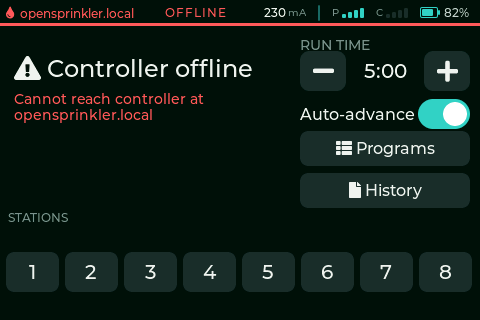
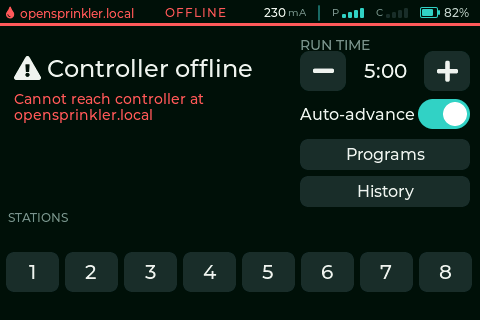
#127 History PR1 refinements: plain nav labels, header retention note, spacing
- Remove the leading glyphs from the Programs and History nav buttons (plain
  text labels now); resize buttons 35->31px with an 8px gap below Auto-advance
  so Programs no longer touches the toggle.
- Drop the bullet from the manual-run "Manual" tag (plain "Manual").
- Annotate the HISTORY header with a muted "Last 30 days" retention note next to
  the title (static for now; PR2 will source the real window from /jl).

Re-rendered all sim states. Native 191/191 green. cyd-35r flash 1470009 ->
1474381 (+4372, +0.22%). include/lv_conf.h byte-identical; nothing vendored.

Copilot-Session: e9242aba-b524-48da-8bd5-a10cf8c2ef23

Changed region(s): [[0.625, 0.4062, 1.0, 0.625]]

diff --git a/lib/ui/panel_screen.cpp b/lib/ui/panel_screen.cpp
@@ -288,19 +288,21 @@ PanelScreen build_panel_screen(lv_obj_t* scr, const Callbacks& cbs) {
 
         // Programs + History entry buttons, stacked in the space below the
         // Auto-advance row. Both share the same width/style/height so the right
-        // column reads as one family; a leading glyph names the screen each
-        // opens (list -> programs, file -> history). Text uses CLR_TEXT like the
-        // other secondary buttons rather than a teal accent.
+        // column reads as one family; plain text labels (no leading glyph) name
+        // the screen each opens. Text uses CLR_TEXT like the other secondary
+        // buttons rather than a teal accent.
         //
         // The right panel is already flush to the STATIONS grid (its bottom edge
-        // == grid top) so it cannot grow downward; instead the buttons fill the
-        // full nav band from just below auto-advance down to the panel's inner
-        // bottom edge, overlapping the 10px bottom pad (same bg) to reclaim it.
-        // This grows each button 29->35px (+6) vs the initial #127 layout while
-        // leaving the stepper + auto-advance at their current legible spacing.
-        static constexpr int NAV_BTN2_H  = 35;  // shared nav-button height
-        static constexpr int NAV_BTN2_G  = 7;   // gap between the two buttons
-        const int nav_top    = AA_Y + AA_H;             // below auto-adv (=94)
+        // == grid top) so it cannot grow downward; the buttons fill the nav band
+        // below auto-advance (with an 8px breathing gap so they don't touch the
+        // toggle) down to the panel's inner bottom edge, overlapping the 10px
+        // bottom pad (same bg) to reclaim it. This grows each button 29->31px
+        // (+2) vs the initial #127 layout while leaving the stepper +
+        // auto-advance at their current legible spacing.
+        static constexpr int NAV_BTN2_H  = 31;  // shared nav-button height
+        static constexpr int NAV_BTN2_G  = 6;   // gap between the two buttons
+        static constexpr int NAV_TOP_GAP = 8;   // gap below auto-advance toggle
+        const int nav_top    = AA_Y + AA_H + NAV_TOP_GAP;  // below auto-adv (=102)
         const int nav_bottom = CONTENT_H - PANEL_PAD;   // overlap bottom pad (=171)
         const int nav_space  = nav_bottom - nav_top;    // usable band (=77)
         const int nav_block  = 2 * NAV_BTN2_H + NAV_BTN2_G;  // both + gap
@@ -308,14 +310,14 @@ PanelScreen build_panel_screen(lv_obj_t* scr, const Callbacks& cbs) {
         if (prog_btn_y < nav_top) prog_btn_y = nav_top;
         const int hist_btn_y = prog_btn_y + NAV_BTN2_H + NAV_BTN2_G;
 
-        ps.btn_programs = make_btn(pnl, LV_SYMBOL_LIST " Programs",
+        ps.btn_programs = make_btn(pnl, "Programs",
                                    CLR_LINE, CLR_TEXT, &lv_font_montserrat_16, 8);
         lv_obj_set_size(ps.btn_programs, PANEL_CONTENT_W, NAV_BTN2_H);
         lv_obj_align(ps.btn_programs, LV_ALIGN_TOP_LEFT, 0, prog_btn_y);
         if (cbs.on_open_programs)
             lv_obj_add_event_cb(ps.btn_programs, cbs.on_open_programs, LV_EVENT_CLICKED, nullptr);
 
-        ps.btn_history = make_btn(pnl, LV_SYMBOL_FILE " History",
+        ps.btn_history = make_btn(pnl, "History",
                                   CLR_LINE, CLR_TEXT, &lv_font_montserrat_16, 8);
         lv_obj_set_size(ps.btn_history, PANEL_CONTENT_W, NAV_BTN2_H);
         lv_obj_align(ps.btn_history, LV_ALIGN_TOP_LEFT, 0, hist_btn_y);
@@ -663,6 +665,16 @@ PanelScreen build_panel_screen(lv_obj_t* scr, const Callbacks& cbs) {
         lv_obj_set_style_text_color(lbl_title, hex_color(CLR_TEXT), 0);
         lv_obj_align(lbl_title, LV_ALIGN_LEFT_MID, 10, 0);
 
+        // Retention annotation: the controller's run log only spans a fixed
+        // recent window, so name it next to the title (muted, smaller) to set
+        // expectations. Static "Last 30 days" for now; PR2 sources the real
+        // window from the /jl range once live data is wired in.
+        lv_obj_t* lbl_span = lv_label_create(hdr);
+        lv_label_set_text(lbl_span, "Last 30 days");
+        lv_obj_set_style_text_font(lbl_span, &lv_font_montserrat_12, 0);
+        lv_obj_set_style_text_color(lbl_span, hex_color(CLR_MUTED), 0);
+        lv_obj_align_to(lbl_span, lbl_title, LV_ALIGN_OUT_RIGHT_BOTTOM, 8, -2);
+
         lv_obj_t* btn_back = make_btn(hdr, LV_SYMBOL_LEFT " Back",
                                       CLR_LINE, CLR_TEXT,
                                       &lv_font_montserrat_20, 8);
@@ -716,7 +728,7 @@ PanelScreen build_panel_screen(lv_obj_t* scr, const Callbacks& cbs) {
         // font, at a fixed x just past the narrowed name column so it reads as a
         // label on the row without colliding with the duration zone.
         ps.hist_row_tag[r] = lv_label_create(ps.hist_rows[r]);
-        lv_label_set_text(ps.hist_row_tag[r], LV_SYMBOL_BULLET " Manual");
+        lv_label_set_text(ps.hist_row_tag[r], "Manual");
         lv_obj_set_style_text_font(ps.hist_row_tag[r], &lv_font_montserrat_12, 0);
         lv_obj_set_style_text_color(ps.hist_row_tag[r], hex_color(CLR_MUTED), 0);
         lv_obj_align(ps.hist_row_tag[r], LV_ALIGN_LEFT_MID, HIST_TAG_X, 0);
